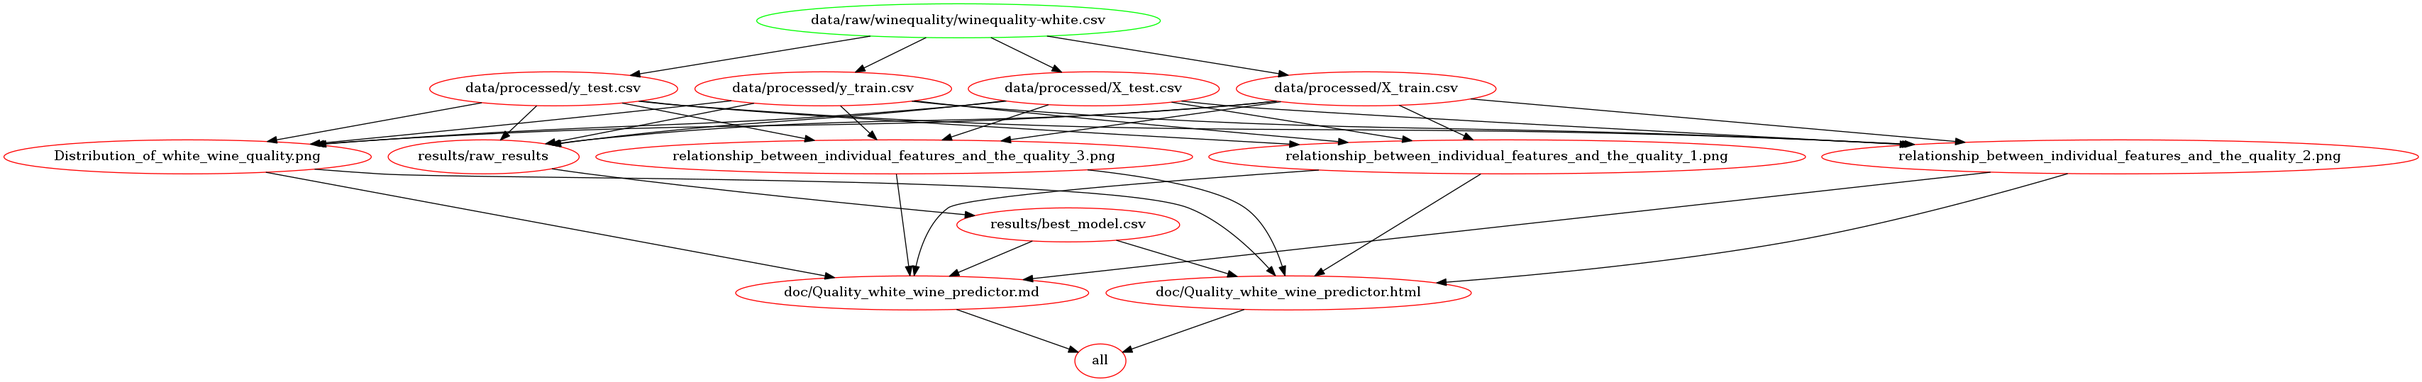
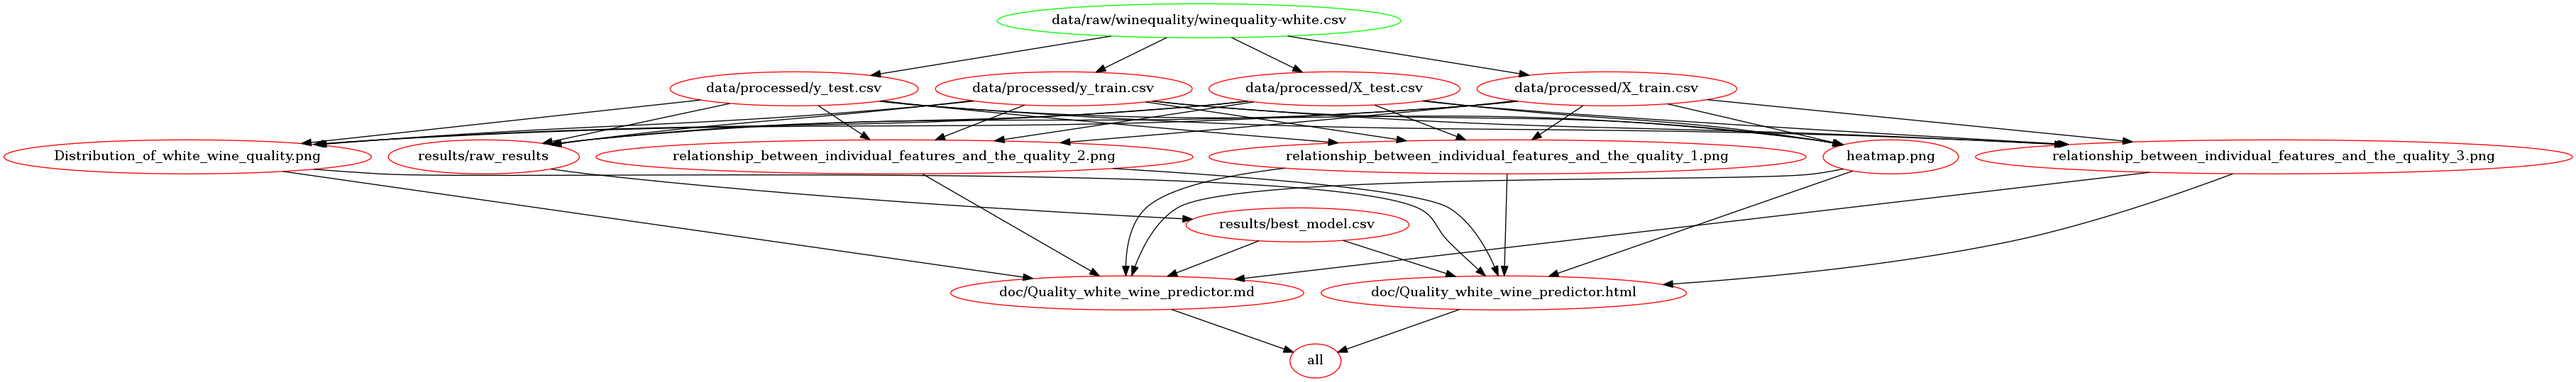
updated makefile2graph, dependency diagram included (README)

diff --git a/README.md b/README.md
@@ -12,19 +12,19 @@ According to experts, wine is differentiated according to its smell, flavour, an
 
 ## Dataset description
 
-The wine quality dataset is publicly available on the UCI machine learning repository (https://archive.ics.uci.edu/ml/datasets/Wine+Quality). The dataset has two files, red wine and white wine variants of the Portuguese “Vinho Verde” wine. It contains a large collection of datasets that have been used for the machine learning community. The red wine dataset contains 1599 instances and the white wine dataset contains 4898 instances. Both files contain 11 input features and 1 output feature. Input features are based on the physicochemical tests and output variable based on sensory data is scaled in 11 quality classes from 0 to 10 (0-very bad to 10-very good).
+The wine quality dataset is publicly available on the UCI machine learning repository (<https://archive.ics.uci.edu/ml/datasets/Wine+Quality>). The dataset has two files, red wine and white wine variants of the Portuguese “Vinho Verde” wine. It contains a large collection of datasets that have been used for the machine learning community. The red wine dataset contains 1599 instances and the white wine dataset contains 4898 instances. Both files contain 11 input features and 1 output feature. Input features are based on the physicochemical tests and output variable based on sensory data is scaled in 11 quality classes from 0 to 10 (0-very bad to 10-very good).
 
 Input variables:
 
-1. fixed acidity
-2. volatile acidity
-3. citric acid
-4. residual sugar
-5. chlorides
-6. free sulfur dioxide
-7. total sulfur dioxide
-8. density
-9. pH
+1.  fixed acidity
+2.  volatile acidity
+3.  citric acid
+4.  residual sugar
+5.  chlorides
+6.  free sulfur dioxide
+7.  total sulfur dioxide
+8.  density
+9.  pH
 10. sulphates
 11. alcohol
 
@@ -46,40 +46,44 @@ Running with Docker:
 
 Make sure to install docker then run the following commands:
 
-```bash
+``` bash
 docker build --tag v0.1.0 /$(pwd)
 docker run --rm -p 8888:8888 -e JUPYTER_ENABLE_LAB=yes -v "${PWD}":/home/jovyan/work v0.1.0 make -C /home/jovyan/work all
 ```
 
 Download the data:
 
-```bash
+``` bash
 python src/download_data.py --url=http://www3.dsi.uminho.pt/pcortez/wine/winequality.zip --path=data/raw/
 ```
 
 Split into train and test sets:
 
-```bash
+``` bash
 python src/split.py data/raw/winequality/winequality-white.csv data/processed
 ```
 
 Train models:
 
-```bash
+``` bash
 python src/ml_models.py data/processed results/raw_results
 ```
 
 Perform EDA:
 
-```bash
+``` bash
 python src/EDA.py data/processed/X_train.csv data/processed/y_train.csv results
 ```
 
 Evaluate the models:
 
-```bash
+``` bash
 python src/analyze.py --r_path=results
 ```
+
+## Dependency diagram
+
+![](Makefile.png)
 
 ## License
 
